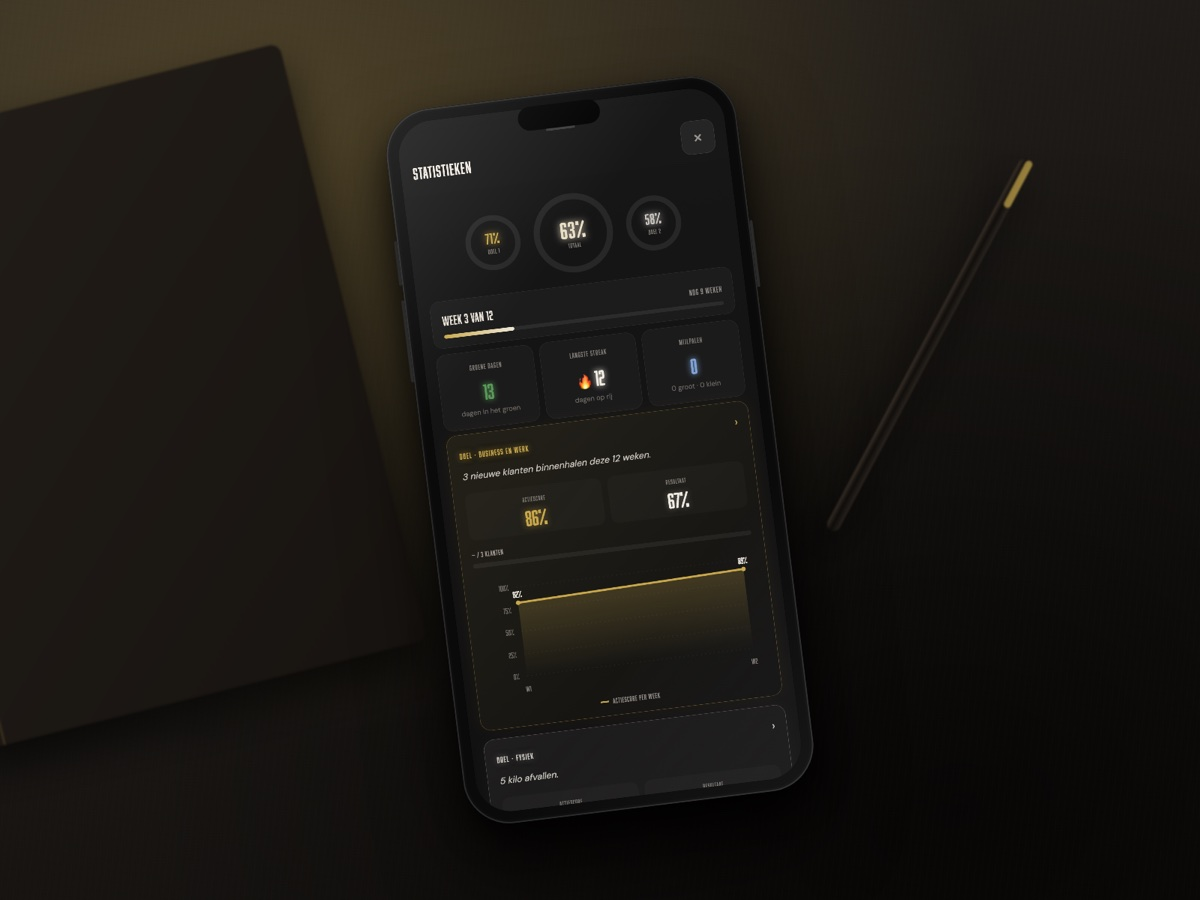
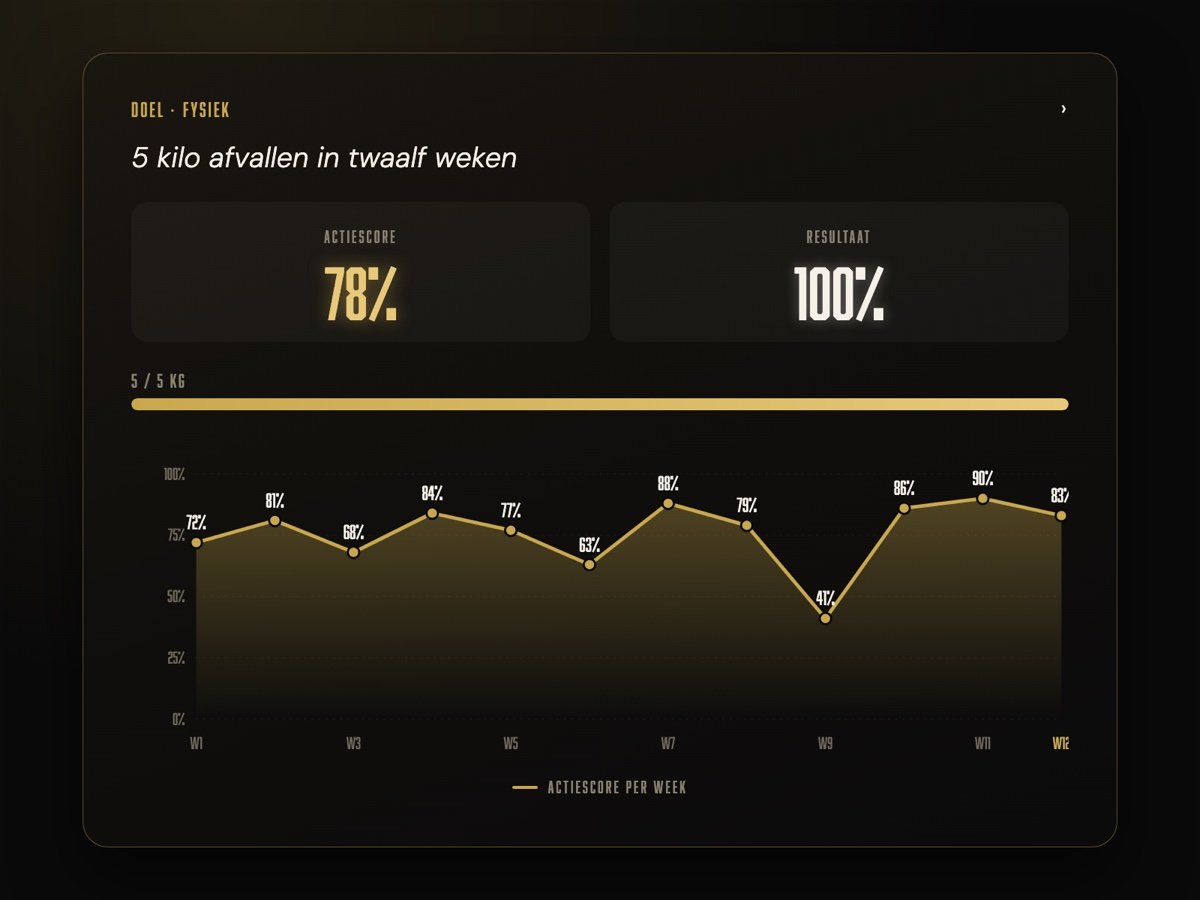
Traject: resultaat-kaart met twaalfwekengrafiek bij 'Een meetbaar resultaat'

diff --git a/index.html b/index.html
@@ -1330,7 +1330,7 @@ tesMeet('pageview',location.pathname);
               <p>Je doel, uitgewerkt tot acties met dag en tijd. Elke dag drie minuten afvinken; elke vrijdag dertig minuten je week scoren. Je ziet zwart op wit of je beweegt — in week vier, niet in maand zes.</p>
             </div>
             <div class="card" data-tilt>
-              <div class="card-img"><img src="img/traject-resultaat.jpg" alt="Je statistieken: week voor week zichtbaar" loading="lazy"><span class="card-num">03</span></div>
+              <div class="card-img"><img src="img/traject-resultaat.jpg" alt="Je doel na twaalf weken: resultaat en actiescore per week" loading="lazy"><span class="card-num">03</span></div>
               <h3>Een meetbaar resultaat na twaalf weken</h3>
               <p>In week één maken we je doel meetbaar: niet fitter worden, maar twaalf kilo eraf vóór 1 december. In week twaalf staat er een getal. Staat het er niet, dan krijg je je geld terug.</p>
             </div>
